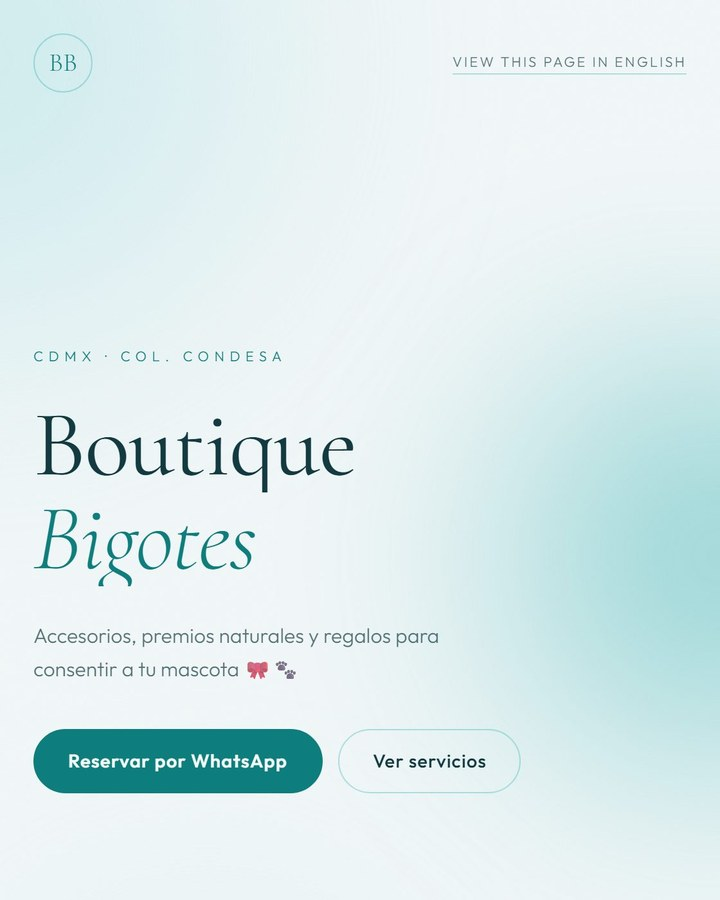
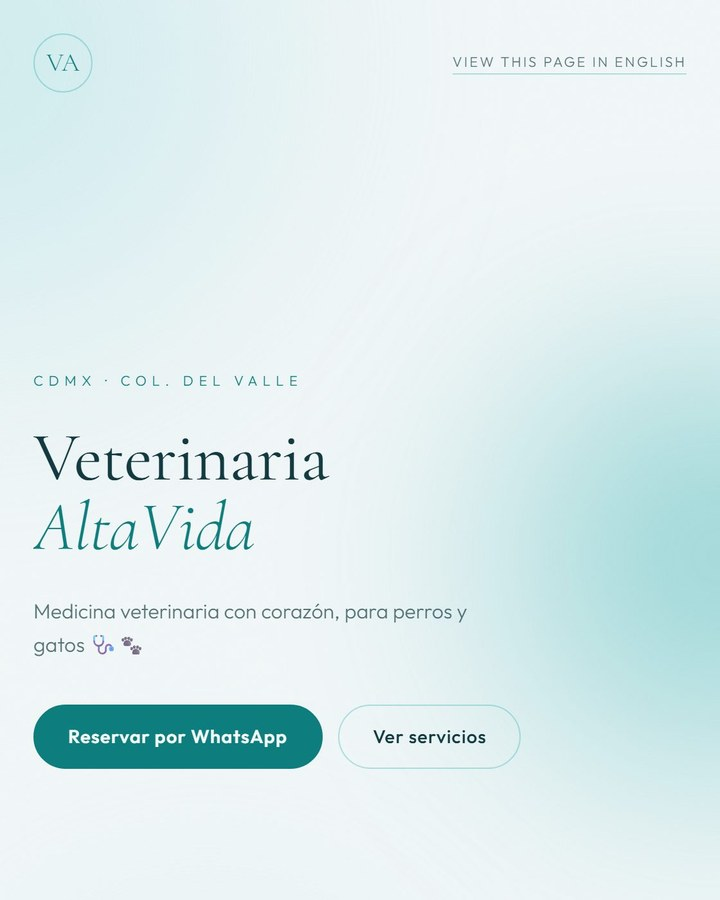
opcion A de Vero: cada estilo muestra SU negocio de ejemplo (capturas del motor) + frase de galeria aprobada

diff --git a/public/es/index.html b/public/es/index.html
@@ -382,7 +382,7 @@ footer a:hover { color: #fff; text-decoration: underline; }
   <div class="wrap">
     <span class="kicker reveal">Estilos</span>
     <h2 class="reveal">12 estilos, hechos para negocios de mascotas.</h2>
-    <p class="lead reveal">Elige uno y tu tarjeta se ve bien desde el primer día. Cada captura es la misma tarjeta hecha por el mismo motor — lo único que cambia es el estilo.</p>
+    <p class="lead reveal">Elige uno y tu tarjeta se ve bien desde el primer día. Cada captura es un negocio de ejemplo distinto en su propio estilo — abre el que más te guste.</p>
     <div class="styles">
       <article class="style reveal"><div class="style__shot"><img src="../assets/style-previews/sunny-paws.jpg" alt="Tarjeta de negocio de mascotas en el estilo Sunny Paws" loading="lazy" decoding="async"></div><div class="style__body"><h3>Sunny Paws</h3><p>Amarillo sol y naranja. Alegre, juguetón, amigable.</p><div class="style__for">Estéticas caninas</div><a class="style__link" href="../demos/spa-de-patas/">Ver Spa de Patas →</a></div></article><article class="style reveal"><div class="style__shot"><img src="../assets/style-previews/aqua-clean.jpg" alt="Tarjeta de negocio de mascotas en el estilo Aqua Clean" loading="lazy" decoding="async"></div><div class="style__body"><h3>Aqua Clean</h3><p>Blanco aqua y turquesa. Limpio, fresco, transmite higiene.</p><div class="style__for">Veterinarias</div><a class="style__link" href="../demos/veterinaria-altavida/">Ver Veterinaria AltaVida →</a></div></article><article class="style reveal"><div class="style__shot"><img src="../assets/style-previews/sage-calm.jpg" alt="Tarjeta de negocio de mascotas en el estilo Sage Calm" loading="lazy" decoding="async"></div><div class="style__body"><h3>Sage Calm</h3><p>Salvia y marfil. Natural, relajante, orgánico.</p><div class="style__for">Hoteles y guarderías</div><a class="style__link" href="../demos/hotel-colitas/">Ver Hotel Colitas →</a></div></article><article class="style reveal"><div class="style__shot"><img src="../assets/style-previews/warm-sand.jpg" alt="Tarjeta de negocio de mascotas en el estilo Warm Sand" loading="lazy" decoding="async"></div><div class="style__body"><h3>Warm Sand</h3><p>Arena y terracota. Cálido, cercano, boutique.</p><div class="style__for">Boutiques</div><a class="style__link" href="../demos/boutique-bigotes/">Ver Boutique Bigotes →</a></div></article><article class="style reveal"><div class="style__shot"><img src="../assets/style-previews/black-gold.jpg" alt="Tarjeta de negocio de mascotas en el estilo Black Gold" loading="lazy" decoding="async"></div><div class="style__body"><h3>Black Gold</h3><p>Negro profundo con dorado. Elegante y premium.</p><div class="style__for">Boutiques</div><a class="style__link" href="../demos/canela-y-oro/">Ver Canela &amp; Oro →</a></div></article><article class="style reveal"><div class="style__shot"><img src="../assets/style-previews/soft-blush.jpg" alt="Tarjeta de negocio de mascotas en el estilo Soft Blush" loading="lazy" decoding="async"></div><div class="style__body"><h3>Soft Blush</h3><p>Rosa suave y delicado. Cariñoso y amable.</p><div class="style__for">Spa y estética</div><a class="style__link" href="../demos/pelusa-rosa/">Ver Pelusa Rosa →</a></div></article><article class="style reveal"><div class="style__shot"><img src="../assets/style-previews/charcoal-clean.jpg" alt="Tarjeta de negocio de mascotas en el estilo Charcoal Clean" loading="lazy" decoding="async"></div><div class="style__body"><h3>Charcoal Clean</h3><p>Carbón sobrio y blanco limpio. Moderno y profesional.</p><div class="style__for">Veterinarias y entrenamiento</div><a class="style__link" href="../demos/clinica-vetta/">Ver Clínica Vetta →</a></div></article><article class="style reveal"><div class="style__shot"><img src="../assets/style-previews/electric-slate.jpg" alt="Tarjeta de negocio de mascotas en el estilo Electric Slate" loading="lazy" decoding="async"></div><div class="style__body"><h3>Electric Slate</h3><p>Pizarra con acento eléctrico. Audaz y con movimiento.</p><div class="style__for">Entrenamiento y guarderías</div><a class="style__link" href="../demos/academia-ladra/">Ver Academia Ladra →</a></div></article><article class="style reveal"><div class="style__shot"><img src="../assets/style-previews/terracotta-warm.jpg" alt="Tarjeta de negocio de mascotas en el estilo Terracotta Warm" loading="lazy" decoding="async"></div><div class="style__body"><h3>Terracotta Warm</h3><p>Terracota cálido y crema. Artesanal y acogedor.</p><div class="style__for">Boutiques y hospedaje</div><a class="style__link" href="../demos/casa-terracota/">Ver Casa Terracota →</a></div></article><article class="style reveal"><div class="style__shot"><img src="../assets/style-previews/midnight-ink.jpg" alt="Tarjeta de negocio de mascotas en el estilo Midnight Ink" loading="lazy" decoding="async"></div><div class="style__body"><h3>Midnight Ink</h3><p>Tinta de medianoche, sobrio y distinguido.</p><div class="style__for">Servicios premium</div><a class="style__link" href="../demos/medianoche-pet-club/">Ver Medianoche Pet Club →</a></div></article><article class="style reveal"><div class="style__shot"><img src="../assets/style-previews/clarity-editorial.jpg" alt="Tarjeta de negocio de mascotas en el estilo Clarity Editorial" loading="lazy" decoding="async"></div><div class="style__body"><h3>Clarity Editorial</h3><p>Editorial y ordenado. Hecho para listas largas de servicios.</p><div class="style__for">Negocios con muchos servicios</div><a class="style__link" href="../demos/central-mascotas/">Ver Central Mascotas →</a></div></article><article class="style reveal"><div class="style__shot"><img src="../assets/style-previews/horizon-teal.jpg" alt="Tarjeta de negocio de mascotas en el estilo Horizon Teal" loading="lazy" decoding="async"></div><div class="style__body"><h3>Horizon Teal</h3><p>Horizonte turquesa. Fresco y confiable.</p><div class="style__for">Hospedaje y veterinarias</div><a class="style__link" href="../demos/bahia-azul/">Ver Bahía Azul →</a></div></article>
     </div>

diff --git a/public/index.html b/public/index.html
@@ -382,7 +382,7 @@ footer a:hover { color: #fff; text-decoration: underline; }
   <div class="wrap">
     <span class="kicker reveal">Visual styles</span>
     <h2 class="reveal">12 styles, built for pet businesses.</h2>
-    <p class="lead reveal">Pick one and your card looks polished from day one. Every screenshot below is the same card built by the same engine — only the style changes.</p>
+    <p class="lead reveal">Pick one and your card looks polished from day one. Every screenshot below is a different example business in its own style — open the one you like.</p>
     <div class="styles">
       <article class="style reveal"><div class="style__shot"><img src="assets/style-previews/sunny-paws.jpg" alt="Pet business card in the Sunny Paws style" loading="lazy" decoding="async"></div><div class="style__body"><h3>Sunny Paws</h3><p>Bright yellow and orange. Playful, friendly, full of energy.</p><div class="style__for">Grooming</div><a class="style__link" href="demos/spa-de-patas/en/">See Spa de Patas →</a></div></article><article class="style reveal"><div class="style__shot"><img src="assets/style-previews/aqua-clean.jpg" alt="Pet business card in the Aqua Clean style" loading="lazy" decoding="async"></div><div class="style__body"><h3>Aqua Clean</h3><p>Fresh, clean aqua blues. Communicates hygiene, water, and calm.</p><div class="style__for">Vet clinics</div><a class="style__link" href="demos/veterinaria-altavida/en/">See Veterinaria AltaVida →</a></div></article><article class="style reveal"><div class="style__shot"><img src="assets/style-previews/sage-calm.jpg" alt="Pet business card in the Sage Calm style" loading="lazy" decoding="async"></div><div class="style__body"><h3>Sage Calm</h3><p>Serene, balanced sage green. Minimal and organic.</p><div class="style__for">Boarding &amp; daycare</div><a class="style__link" href="demos/hotel-colitas/en/">See Hotel Colitas →</a></div></article><article class="style reveal"><div class="style__shot"><img src="assets/style-previews/warm-sand.jpg" alt="Pet business card in the Warm Sand style" loading="lazy" decoding="async"></div><div class="style__body"><h3>Warm Sand</h3><p>Sand and earth tones. Natural, warm, and artisanal.</p><div class="style__for">Pet boutiques</div><a class="style__link" href="demos/boutique-bigotes/en/">See Boutique Bigotes →</a></div></article><article class="style reveal"><div class="style__shot"><img src="assets/style-previews/black-gold.jpg" alt="Pet business card in the Black Gold style" loading="lazy" decoding="async"></div><div class="style__body"><h3>Black Gold</h3><p>Deep black with gold accents. Elegant and premium.</p><div class="style__for">Pet boutiques</div><a class="style__link" href="demos/canela-y-oro/en/">See Canela &amp; Oro →</a></div></article><article class="style reveal"><div class="style__shot"><img src="assets/style-previews/soft-blush.jpg" alt="Pet business card in the Soft Blush style" loading="lazy" decoding="async"></div><div class="style__body"><h3>Soft Blush</h3><p>Soft, delicate pink tones. Gentle and caring.</p><div class="style__for">Pet spa &amp; grooming</div><a class="style__link" href="demos/pelusa-rosa/en/">See Pelusa Rosa →</a></div></article><article class="style reveal"><div class="style__shot"><img src="assets/style-previews/charcoal-clean.jpg" alt="Pet business card in the Charcoal Clean style" loading="lazy" decoding="async"></div><div class="style__body"><h3>Charcoal Clean</h3><p>Sober charcoal and clean white. Modern and professional.</p><div class="style__for">Vet clinics &amp; training</div><a class="style__link" href="demos/clinica-vetta/en/">See Clínica Vetta →</a></div></article><article class="style reveal"><div class="style__shot"><img src="assets/style-previews/electric-slate.jpg" alt="Pet business card in the Electric Slate style" loading="lazy" decoding="async"></div><div class="style__body"><h3>Electric Slate</h3><p>Slate with an electric accent. Bold and full of movement.</p><div class="style__for">Training &amp; daycare</div><a class="style__link" href="demos/academia-ladra/en/">See Academia Ladra →</a></div></article><article class="style reveal"><div class="style__shot"><img src="assets/style-previews/terracotta-warm.jpg" alt="Pet business card in the Terracotta Warm style" loading="lazy" decoding="async"></div><div class="style__body"><h3>Terracotta Warm</h3><p>Warm terracotta and cream. Artisanal and welcoming.</p><div class="style__for">Boutiques &amp; boarding</div><a class="style__link" href="demos/casa-terracota/en/">See Casa Terracota →</a></div></article><article class="style reveal"><div class="style__shot"><img src="assets/style-previews/midnight-ink.jpg" alt="Pet business card in the Midnight Ink style" loading="lazy" decoding="async"></div><div class="style__body"><h3>Midnight Ink</h3><p>Midnight ink, restrained and distinguished.</p><div class="style__for">Premium services</div><a class="style__link" href="demos/medianoche-pet-club/en/">See Medianoche Pet Club →</a></div></article><article class="style reveal"><div class="style__shot"><img src="assets/style-previews/clarity-editorial.jpg" alt="Pet business card in the Clarity Editorial style" loading="lazy" decoding="async"></div><div class="style__body"><h3>Clarity Editorial</h3><p>Editorial and orderly. Made for long service lists.</p><div class="style__for">Multi-service businesses</div><a class="style__link" href="demos/central-mascotas/en/">See Central Mascotas →</a></div></article><article class="style reveal"><div class="style__shot"><img src="assets/style-previews/horizon-teal.jpg" alt="Pet business card in the Horizon Teal style" loading="lazy" decoding="async"></div><div class="style__body"><h3>Horizon Teal</h3><p>Open teal horizon. Fresh and trustworthy.</p><div class="style__for">Boarding &amp; vet clinics</div><a class="style__link" href="demos/bahia-azul/en/">See Bahía Azul →</a></div></article>
     </div>
